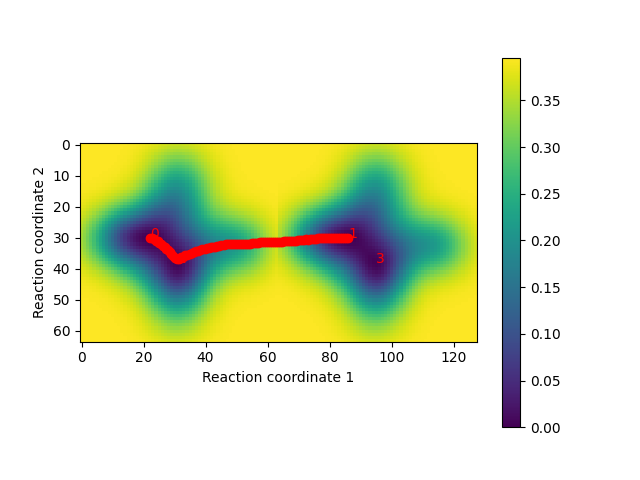
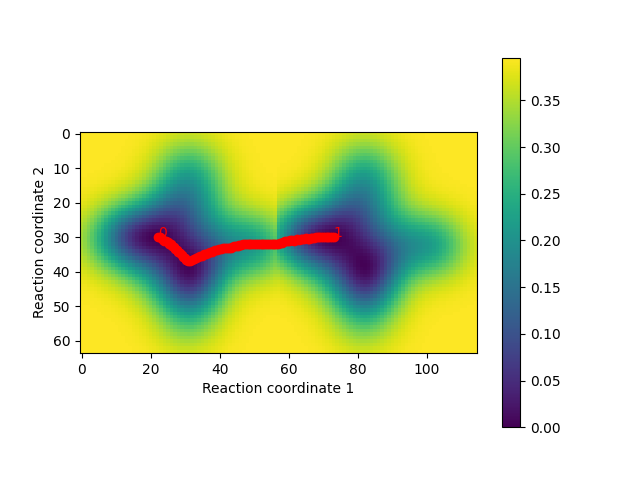
update 3d

diff --git a/06_2d_neb/04_1000k/neb_1000k.py b/06_2d_neb/04_1000k/neb_1000k.py
@@ -8,7 +8,10 @@ fes = np.load("y_fes_1000k.npy")
 # copy fes along the reaction coordinate 1
 fes = np.tile(fes, (1, 2))
 
-local_minima_coords = local_minima(fes)
+# remove the middle 13 columns of 57, 58, 59, 60, 61, 62, 63, 64, 65, 66, 67, 68, 69
+fes = np.delete(fes, [57, 58, 59, 60, 61, 62, 63, 64, 65, 66, 67, 68, 69], axis=1)
+
+local_minima_coords = local_minima(fes, size=20)
 n_images = 100
 n_steps = 1000
 spring_constant = 0.2
@@ -40,7 +43,10 @@ fes = np.load("y_fes_1000k.npy")
 # copy fes along the reaction coordinate 2
 fes = np.tile(fes, (2, 1))
 
-local_minima_coords = local_minima(fes)
+# remove the middle 13 rows of 57, 58, 59, 60, 61, 62, 63, 64, 65, 66, 67, 68, 69
+fes = np.delete(fes, [57, 58, 59, 60, 61, 62, 63, 64, 65, 66, 67, 68, 69], axis=0)
+
+local_minima_coords = local_minima(fes, size=20)
 n_images = 100
 n_steps = 1000
 spring_constant = 0.2

diff --git a/06_2d_neb/03_700k/neb_700k.py b/06_2d_neb/03_700k/neb_700k.py
@@ -8,7 +8,10 @@ fes = np.load("y_fes_700k.npy")
 # copy fes along the reaction coordinate 1
 fes = np.tile(fes, (1, 2))
 
-local_minima_coords = local_minima(fes)
+# remove the middle 13 columns of 57, 58, 59, 60, 61, 62, 63, 64, 65, 66, 67, 68, 69
+fes = np.delete(fes, [57, 58, 59, 60, 61, 62, 63, 64, 65, 66, 67, 68, 69], axis=1)
+
+local_minima_coords = local_minima(fes, size=20)
 n_images = 100
 n_steps = 1000
 spring_constant = 0.2
@@ -40,7 +43,10 @@ fes = np.load("y_fes_700k.npy")
 # copy fes along the reaction coordinate 2
 fes = np.tile(fes, (2, 1))
 
-local_minima_coords = local_minima(fes)
+# remove the middle 13 rows of 57, 58, 59, 60, 61, 62, 63, 64, 65, 66, 67, 68, 69
+fes = np.delete(fes, [57, 58, 59, 60, 61, 62, 63, 64, 65, 66, 67, 68, 69], axis=0)
+
+local_minima_coords = local_minima(fes, size=20)
 n_images = 100
 n_steps = 1000
 spring_constant = 0.2
